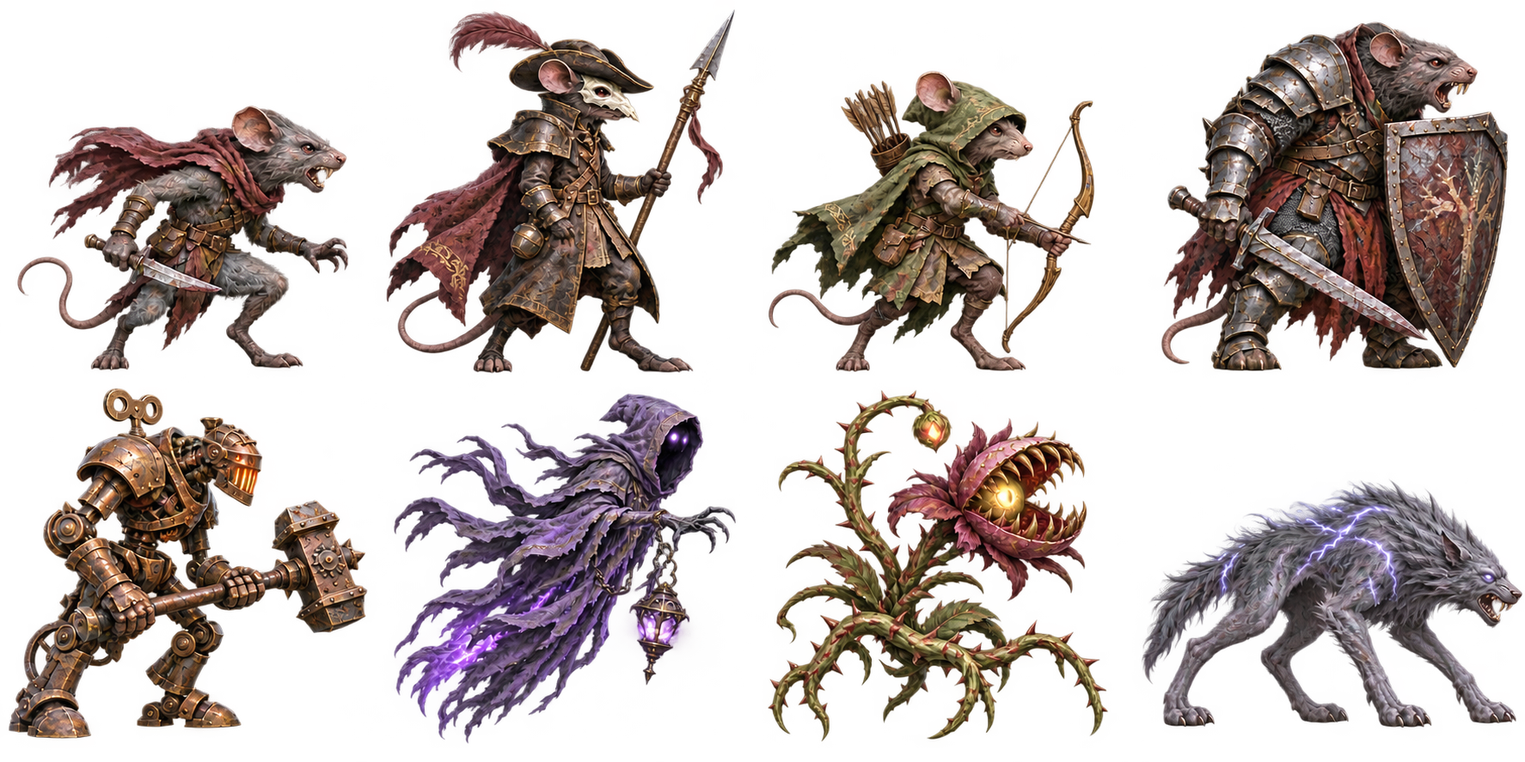
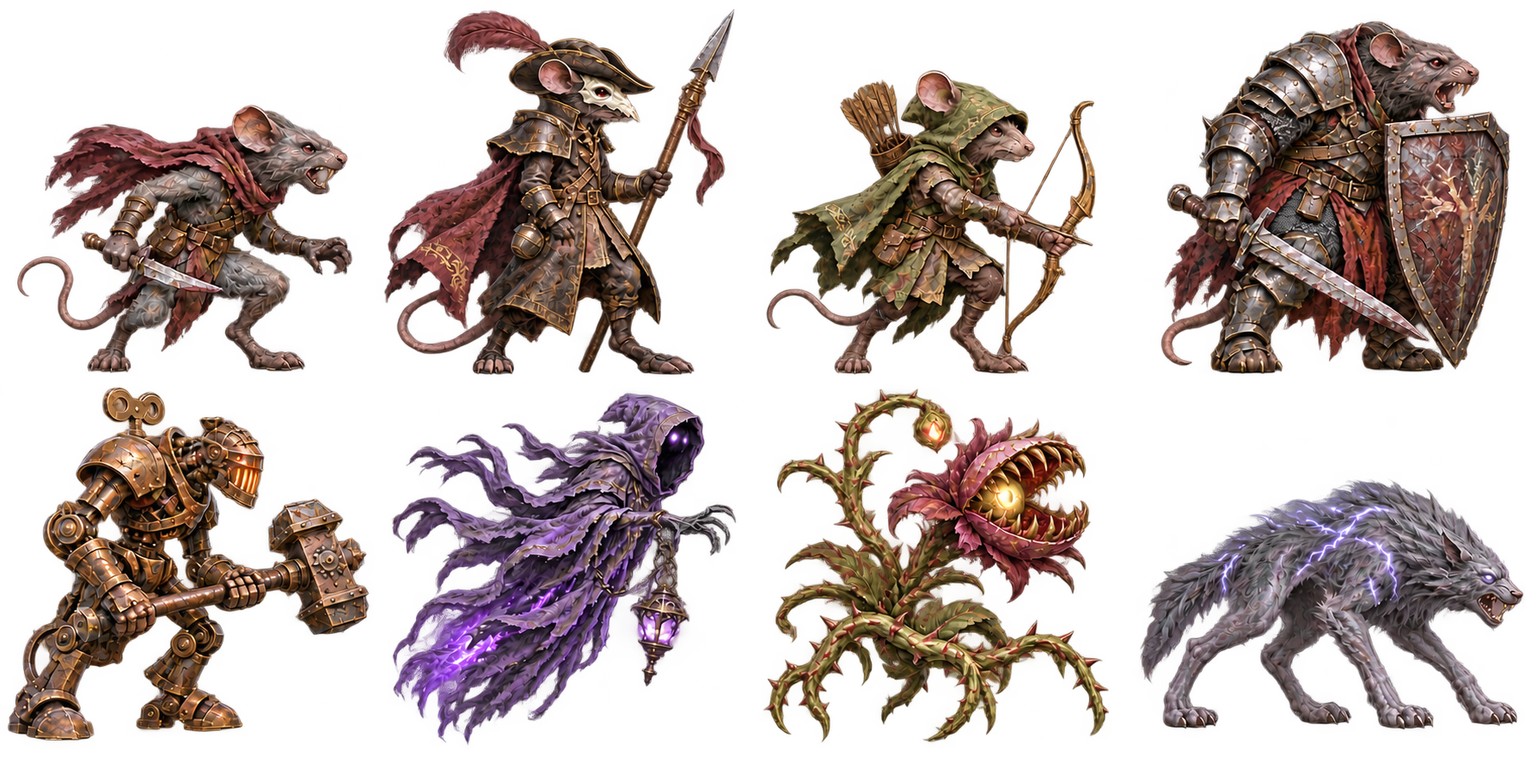
Clean remaining enemy matte fragments and refresh asset URLs

diff --git a/index.html b/index.html
@@ -1,2 +1,2 @@
-<!doctype html><html lang="ru"><head><meta charset="utf-8"><meta name="viewport" content="width=device-width,initial-scale=1"><meta name="theme-color" content="#10141b"><title>Лапы Рассвета II — Тень Богдалины</title><link rel="stylesheet" href="style.css?v=020"></head><body><header><a class="brand" href="#" id="home"><span class="sigil">☾</span><span>ЛАПЫ РАССВЕТА <b>II</b><small>ТЕНЬ БОГДАЛИНЫ</small></span></a><nav><button id="sound">Звук: выкл</button><button id="fullscreen">На весь экран</button><a href="https://github.com/golunovoleg111-rgb/paws-of-dawn-ii" target="_blank" rel="noopener">GitHub ↗</a></nav></header><main><section id="titleScreen"><div class="titleArt"></div><div class="titleMist"></div><canvas id="titleFigure" width="640" height="980" aria-label="Мисти — новая стражница рассвета"></canvas><div class="titleContent"><div class="eyebrow">ДОРОГА ПРОДОЛЖАЕТСЯ</div><h1>Лапы<br>Рассвета <i>II</i></h1><h2>Тень Богдалины</h2><p>Одного рассвета оказалось мало.<br>Теперь Мисти предстоит вернуть тех,<br>ради кого стоит встретить следующий.</p><div class="titleActions"><button class="primary" id="start">Начать путь <span>→</span></button><button id="toCamp">Лагерь и отряд</button><button id="castBook">Герои и противники</button></div><div id="artStatus" class="artStatus" aria-live="polite"></div><div class="titleFacts"><span>10 <small>ЛОКАЦИЙ</small></span><span>4 <small>ГЕРОЯ</small></span><span>3 <small>ПОРАЖЕНИЯ</small></span></div><div class="controls">← → / A D — движение · ПРОБЕЛ — прыжок · S — красться<br>Q — приём · E — атака · F — взаимодействие</div></div><div class="edition">НОВАЯ ИСТОРИЯ · ДЕСЯТЬ ГЛАВ <b>ПРИКЛЮЧЕНЧЕСКАЯ 2.5D ИГРА</b></div></section><section id="campScreen" hidden><div class="campHeading"><div><div class="eyebrow">МЕЖДУ ТЬМОЙ И РАССВЕТОМ</div><h1>Привал у старой дороги</h1><p>Собери отряд. Подготовься. Верни друзей домой.</p></div><div class="wallet"><span id="campFish"></span><small id="campLevel"></small></div></div><div id="party" class="party"></div><div class="campNav"><button data-tab="route" class="active">Путь</button><button data-tab="training">Обучение</button><button data-tab="weapons">Оружейная</button><button data-tab="supplies">Припасы</button><button data-tab="progress">Мастерство</button></div><p id="campNotice" role="status"></p><div id="campContent"></div></section><section id="gameScreen" hidden><div class="gameHeading"><div><small id="chapterLabel"></small><strong id="zoneLabel"></strong></div><div><button id="mapBtn">Карта M</button><button id="inventoryBtn">Сумка Tab</button><button id="pauseBtn">Пауза Esc</button></div></div><div class="stage"><canvas id="game" width="1280" height="720" tabindex="0" aria-label="Игровая локация. Управление стрелками или A D, пробел, S, Q, E, F."></canvas><div class="hud"><div class="heroHud"><canvas id="hudPortrait" width="140" height="150"></canvas><div><b id="heroName"></b><div class="health"><i id="healthFill"></i><span id="healthText"></span></div><div class="xp"><i id="xpFill"></i></div><small id="levelText"></small></div></div><div class="resources"><span id="fishHud"></span><span id="deathsHud"></span><span id="timeHud"></span></div></div><div id="objective"></div><div id="notices" aria-live="polite"></div><div class="bottomHud"><span id="weaponHud"></span><span id="skillHud"></span><span id="potionHud"></span><span id="promptHud"></span></div></div><div class="keyGuide"><span><kbd>S</kbd> красться</span><span><kbd>Q</kbd> особый приём</span><span><kbd>E</kbd> атака</span><span><kbd>F</kbd> взаимодействие</span><span><kbd>1</kbd> зелье</span><span><kbd>2</kbd> сфера</span><span><kbd>3</kbd> решимость</span><span><kbd>4</kbd> паёк</span></div><div id="touch"><button data-key="ArrowLeft">←</button><button data-key="ArrowRight">→</button><button data-key="KeyS">S</button><button data-key="Space">↑</button><button data-key="KeyQ">Q</button><button data-key="KeyE">E</button><button data-key="KeyF">F</button></div></section></main><footer><span>ЛАПЫ РАССВЕТА II / ИГРАЕМАЯ ВЕРСИЯ 0.2</span><a href="https://golunovoleg111-rgb.github.io/paws-on-the-road/" target="_blank" rel="noopener">Первая история ↗</a></footer><dialog id="modal"><button id="closeModal" class="close" aria-label="Закрыть">×</button><div id="modalContent"></div></dialog><div id="globalToast" role="status"></div><script type="module" src="src/main.js?v=020"></script></body></html>
+<!doctype html><html lang="ru"><head><meta charset="utf-8"><meta name="viewport" content="width=device-width,initial-scale=1"><meta name="theme-color" content="#10141b"><title>Лапы Рассвета II — Тень Богдалины</title><link rel="stylesheet" href="style.css?v=021"></head><body><header><a class="brand" href="#" id="home"><span class="sigil">☾</span><span>ЛАПЫ РАССВЕТА <b>II</b><small>ТЕНЬ БОГДАЛИНЫ</small></span></a><nav><button id="sound">Звук: выкл</button><button id="fullscreen">На весь экран</button><a href="https://github.com/golunovoleg111-rgb/paws-of-dawn-ii" target="_blank" rel="noopener">GitHub ↗</a></nav></header><main><section id="titleScreen"><div class="titleArt"></div><div class="titleMist"></div><canvas id="titleFigure" width="640" height="980" aria-label="Мисти — новая стражница рассвета"></canvas><div class="titleContent"><div class="eyebrow">ДОРОГА ПРОДОЛЖАЕТСЯ</div><h1>Лапы<br>Рассвета <i>II</i></h1><h2>Тень Богдалины</h2><p>Одного рассвета оказалось мало.<br>Теперь Мисти предстоит вернуть тех,<br>ради кого стоит встретить следующий.</p><div class="titleActions"><button class="primary" id="start">Начать путь <span>→</span></button><button id="toCamp">Лагерь и отряд</button><button id="castBook">Герои и противники</button></div><div id="artStatus" class="artStatus" aria-live="polite"></div><div class="titleFacts"><span>10 <small>ЛОКАЦИЙ</small></span><span>4 <small>ГЕРОЯ</small></span><span>3 <small>ПОРАЖЕНИЯ</small></span></div><div class="controls">← → / A D — движение · ПРОБЕЛ — прыжок · S — красться<br>Q — приём · E — атака · F — взаимодействие</div></div><div class="edition">НОВАЯ ИСТОРИЯ · ДЕСЯТЬ ГЛАВ <b>ПРИКЛЮЧЕНЧЕСКАЯ 2.5D ИГРА</b></div></section><section id="campScreen" hidden><div class="campHeading"><div><div class="eyebrow">МЕЖДУ ТЬМОЙ И РАССВЕТОМ</div><h1>Привал у старой дороги</h1><p>Собери отряд. Подготовься. Верни друзей домой.</p></div><div class="wallet"><span id="campFish"></span><small id="campLevel"></small></div></div><div id="party" class="party"></div><div class="campNav"><button data-tab="route" class="active">Путь</button><button data-tab="training">Обучение</button><button data-tab="weapons">Оружейная</button><button data-tab="supplies">Припасы</button><button data-tab="progress">Мастерство</button></div><p id="campNotice" role="status"></p><div id="campContent"></div></section><section id="gameScreen" hidden><div class="gameHeading"><div><small id="chapterLabel"></small><strong id="zoneLabel"></strong></div><div><button id="mapBtn">Карта M</button><button id="inventoryBtn">Сумка Tab</button><button id="pauseBtn">Пауза Esc</button></div></div><div class="stage"><canvas id="game" width="1280" height="720" tabindex="0" aria-label="Игровая локация. Управление стрелками или A D, пробел, S, Q, E, F."></canvas><div class="hud"><div class="heroHud"><canvas id="hudPortrait" width="140" height="150"></canvas><div><b id="heroName"></b><div class="health"><i id="healthFill"></i><span id="healthText"></span></div><div class="xp"><i id="xpFill"></i></div><small id="levelText"></small></div></div><div class="resources"><span id="fishHud"></span><span id="deathsHud"></span><span id="timeHud"></span></div></div><div id="objective"></div><div id="notices" aria-live="polite"></div><div class="bottomHud"><span id="weaponHud"></span><span id="skillHud"></span><span id="potionHud"></span><span id="promptHud"></span></div></div><div class="keyGuide"><span><kbd>S</kbd> красться</span><span><kbd>Q</kbd> особый приём</span><span><kbd>E</kbd> атака</span><span><kbd>F</kbd> взаимодействие</span><span><kbd>1</kbd> зелье</span><span><kbd>2</kbd> сфера</span><span><kbd>3</kbd> решимость</span><span><kbd>4</kbd> паёк</span></div><div id="touch"><button data-key="ArrowLeft">←</button><button data-key="ArrowRight">→</button><button data-key="KeyS">S</button><button data-key="Space">↑</button><button data-key="KeyQ">Q</button><button data-key="KeyE">E</button><button data-key="KeyF">F</button></div></section></main><footer><span>ЛАПЫ РАССВЕТА II / ИГРАЕМАЯ ВЕРСИЯ 0.2</span><a href="https://golunovoleg111-rgb.github.io/paws-on-the-road/" target="_blank" rel="noopener">Первая история ↗</a></footer><dialog id="modal"><button id="closeModal" class="close" aria-label="Закрыть">×</button><div id="modalContent"></div></dialog><div id="globalToast" role="status"></div><script type="module" src="src/main.js?v=021"></script></body></html>
 

diff --git a/src/sprites.js b/src/sprites.js
@@ -1,5 +1,5 @@
-import{createCast}from'./cast.js?v=020';import{frameBounds,atlasCell,animationFrame,isolateFrame,expandCell}from'./animation.js?v=020';
-const SPECS={misty:{file:'misty-poses.webp',cols:4,rows:2},party:{file:'party-poses.webp',cols:4,rows:3},enemies:{file:'enemies.webp',cols:4,rows:2},court:{file:'court-poses.webp',cols:4,rows:2},creatures:{file:'creatures.webp',cols:4,rows:2}};
+import{createCast}from'./cast.js?v=021';import{frameBounds,atlasCell,animationFrame,isolateFrame,expandCell}from'./animation.js?v=021';
+const SPECS={misty:{file:'misty-poses.webp',cols:4,rows:2},party:{file:'party-poses.webp',cols:4,rows:3},enemies:{file:'enemies.webp?v=021',cols:4,rows:2},court:{file:'court-poses.webp',cols:4,rows:2},creatures:{file:'creatures.webp',cols:4,rows:2}};
 export class SpriteBank{
  constructor(){this.entries={};this.errors=[];this.pending=Object.keys(SPECS).map(name=>this.load(name))}
  async load(name){const spec=SPECS[name],image=new Image();image.src=new URL('../assets/characters/'+spec.file,import.meta.url).href;try{await image.decode();const canvas=document.createElement('canvas');canvas.width=image.naturalWidth;canvas.height=image.naturalHeight;const c=canvas.getContext('2d',{willReadFrequently:true});c.drawImage(image,0,0);const pixels=c.getImageData(0,0,canvas.width,canvas.height).data;let transparent=0;for(let i=3;i<pixels.length;i+=64)if(pixels[i]<20)transparent++;if(transparent<50)throw Error('Atlas has no usable transparency');const frames=Array.from({length:spec.cols*spec.rows},(_,i)=>{const cell=expandCell(atlasCell(i,spec.cols,canvas.width,canvas.height,spec.rows),canvas.width,canvas.height,name==='creatures'?.12:.04);const isolated=isolateFrame(pixels,canvas.width,cell);if(!isolated)return{...cell,bounds:null};const {labels,selected,...bounds}=isolated,clean=document.createElement('canvas');clean.width=bounds.maxX-bounds.minX+1;clean.height=bounds.maxY-bounds.minY+1;const cc=clean.getContext('2d'),data=cc.createImageData(clean.width,clean.height);for(let y=0;y<clean.height;y++)for(let x=0;x<clean.width;x++){const xx=x+bounds.minX,yy=y+bounds.minY;let keep=selected.has(labels[yy*cell.w+xx]);if(!keep){for(let dy=-2;dy<=2&&!keep;dy++)for(let dx=-2;dx<=2;dx++){const nx=xx+dx,ny=yy+dy;if(nx>=0&&nx<cell.w&&ny>=0&&ny<cell.h&&selected.has(labels[ny*cell.w+nx])){keep=true;break}}}if(keep){const src=((cell.y+yy)*canvas.width+cell.x+xx)*4,dst=(y*clean.width+x)*4;for(let a=0;a<4;a++)data.data[dst+a]=pixels[src+a]}}cc.putImageData(data,0,0);return{...cell,bounds,clean}});if(frames.some(f=>!f.bounds))throw Error('Empty sprite frame');this.entries[name]={image,frames,spec};return true}catch(error){this.errors.push(name);console.warn('Character atlas unavailable:',name,error.message);return false}}

diff --git a/src/model.js b/src/model.js
@@ -1,4 +1,4 @@
-import{HEROES,ITEMS,WEAPONS,SKILLS,CHAPTERS,RELICS,GEAR}from'./data.js?v=020';
+import{HEROES,ITEMS,WEAPONS,SKILLS,CHAPTERS,RELICS,GEAR}from'./data.js?v=021';
 export const clamp=(n,a,b)=>Math.max(a,Math.min(b,n));
 export function freshSave(){return{version:1,fish:85,xp:0,hero:0,rescued:[0],completed:[],skills:[],weapons:['sword'],weapon:'sword',gearOwned:[],gear:{},inventory:{potion:2,arrows:10},looted:[],awards:[],chapter:0,attempt:1,run:null,bestTimes:{},intro:false}}
 export function readSave(storage,key){try{const raw=JSON.parse(storage.getItem(key));if(!raw||raw.version!==1)return freshSave();const s={...freshSave(),...raw};s.fish=clamp(Number(s.fish)||0,0,999999);s.xp=clamp(Number(s.xp)||0,0,1000000);s.chapter=clamp(Number(s.chapter)||0,0,9);s.rescued=[...new Set([0,...(s.rescued||[]).filter(n=>Number.isInteger(n)&&n>=0&&n<4)])];if(!s.rescued.includes(s.hero))s.hero=0;s.completed=[...new Set((s.completed||[]).filter(n=>Number.isInteger(n)&&n>=0&&n<10))];s.skills=(s.skills||[]).filter(id=>SKILLS.some(a=>a.id===id));s.weapons=[...new Set(['sword',...(s.weapons||[]).filter(id=>WEAPONS.some(a=>a.id===id))])];if(!s.weapons.includes(s.weapon))s.weapon='sword';const inv={};for(const[id,q]of Object.entries(s.inventory||{}))if(ITEMS[id]&&q>0)inv[id]=clamp(Math.floor(q),0,ITEMS[id].cap);s.inventory=inv;s.gearOwned=(s.gearOwned||[]).filter(id=>GEAR.some(g=>g.id===id));s.gear=s.gear||{};for(const [slot,id]of Object.entries(s.gear))if(!s.gearOwned.includes(id)||!GEAR.some(g=>g.id===id&&g.slot===slot))delete s.gear[slot];s.looted=Array.isArray(s.looted)?s.looted:[];s.awards=Array.isArray(s.awards)?s.awards:[];s.bestTimes=s.bestTimes||{};return s}catch{return freshSave()}}

diff --git a/src/main.js b/src/main.js
@@ -1,6 +1,6 @@
-import{SAVE_KEY,CHAPTERS,HEROES,ITEMS,WEAPONS,SKILLS,MILESTONES,GEAR}from'./data.js?v=020';
-import{readSave,stats,levelOf,weaponOf,purchase,useItem,nextTraining,canEnter,relicChoices}from'./model.js?v=020';
-import{Game}from'./engine.js?v=020';import{Renderer}from'./renderer.js?v=020';import{metrics,targetMetrics,dialsSolved,inputSequence}from'./puzzles.js?v=020';
+import{SAVE_KEY,CHAPTERS,HEROES,ITEMS,WEAPONS,SKILLS,MILESTONES,GEAR}from'./data.js?v=021';
+import{readSave,stats,levelOf,weaponOf,purchase,useItem,nextTraining,canEnter,relicChoices}from'./model.js?v=021';
+import{Game}from'./engine.js?v=021';import{Renderer}from'./renderer.js?v=021';import{metrics,targetMetrics,dialsSolved,inputSequence}from'./puzzles.js?v=021';
 const $=s=>document.querySelector(s),all=s=>document.querySelectorAll(s);let save=readSave(localStorage,SAVE_KEY),campTab='route',sound=false,audio=null,modalReturn='play',puzzle=null,lastHud=0,lastPaint=0,toastTimer,modalAction=null;
 export const game=new Game(save,onEvent);const renderer=new Renderer($('#game'));const modal=$('#modal'),content=$('#modalContent');
 const clockText=n=>Math.floor(n/60)+':'+String(Math.floor(n%60)).padStart(2,'0');

diff --git a/src/renderer.js b/src/renderer.js
@@ -1,4 +1,4 @@
-import{CHAPTERS,HEROES,ENEMY_TYPES}from'./data.js?v=020';import{createSpriteCast}from'./sprites.js?v=020';import{levelOf,weaponOf}from'./model.js?v=020';
+import{CHAPTERS,HEROES,ENEMY_TYPES}from'./data.js?v=021';import{createSpriteCast}from'./sprites.js?v=021';import{levelOf,weaponOf}from'./model.js?v=021';
 const W=1280,H=720,PALETTES=[['#55514b','#37383a','#9d8d70'],['#455b5d','#253e45','#9bafa0'],['#565164','#323445','#aaa0b9'],['#695549','#3c3435','#bf9972'],['#4e5c4e','#2f3f39','#a2b291'],['#6c6255','#3f3d3c','#c0ad87'],['#4d5c68','#2b3e50','#a9b6c0'],['#5b564c','#363a3d','#baaa84'],['#5c4c57','#33303f','#ba929c'],['#514553','#2d293a','#b799a6']];
 export class Renderer{
  constructor(canvas){this.canvas=canvas;this.c=canvas.getContext('2d');canvas.width=W*1.5;canvas.height=H*1.5;this.c.setTransform(1.5,0,0,1.5,0,0);this.cast=createSpriteCast();this.atlas=new Image();this.atlas.src='assets/worlds-atlas.webp';this.frame=0;this.tiles={};for(const name of ['meadow','forest','roof','coast','snow','ruins','castle','wood','iron','bark']){const image=new Image();image.src='assets/materials/'+name+'.png';this.tiles[name]=image}this.patterns={};}

diff --git a/src/engine.js b/src/engine.js
@@ -1,6 +1,6 @@
-import{CHAPTERS,HEROES,ENEMY_TYPES,SKILLS,WEAPONS}from'./data.js?v=020';
-import{stats,weaponOf,levelOf,canEnter,award,addItem,useItem,clamp,seeded}from'./model.js?v=020';
-import{buildWorld,entityBox}from'./world.js?v=020';
+import{CHAPTERS,HEROES,ENEMY_TYPES,SKILLS,WEAPONS}from'./data.js?v=021';
+import{stats,weaponOf,levelOf,canEnter,award,addItem,useItem,clamp,seeded}from'./model.js?v=021';
+import{buildWorld,entityBox}from'./world.js?v=021';
 export const overlaps=(a,b)=>a.x<b.x+b.w&&a.x+a.w>b.x&&a.y<b.y+b.h&&a.y+a.h>b.y;
 const distance=(a,b)=>Math.hypot(a.x-b.x,a.y-b.y);
 export class Game{

diff --git a/src/world.js b/src/world.js
@@ -1,4 +1,4 @@
-import{CHAPTERS,ENEMY_TYPES}from'./data.js?v=020';import{seeded}from'./model.js?v=020';
+import{CHAPTERS,ENEMY_TYPES}from'./data.js?v=021';import{seeded}from'./model.js?v=021';
 // Authored terrain contours. Deep fronts are solid architecture, not a stream of floating tiles.
 const CONTOURS=[
  [[0,900,700],[1000,740,700],[1840,900,620],[2840,800,700],[3750,850,790],[4720,900,700],[5740,900,620],[6750,900,700],[7760,1140,700]],

diff --git a/docs/character-art.md b/docs/character-art.md
@@ -7,7 +7,7 @@
 | Файл (PNG + WebP) | Сетка | Содержание |
 | --- | --- | --- |
 | misty-poses | 4×2 | Мисти: две стойки, два шага, два удара, прыжок, крадущаяся поза |
-| party-poses | 4×3 | Коди, Гектор, Теддик: стойка, бег, удар, прыжок |
+| party-poses | 4×3 | Коди, Гектор, Теддик: стойка, два шага бега, удар |
 | enemies | 4×2 | Крыса, налётчик, стрелок, щитоносец, автоматон, тень, растение, гончая |
 | court-poses | 4×2 | Четыре позы Богдалины и четыре позы совы Ори |
 | creatures | 4×2 | Четыре позы мотылька и четыре состояния стража печати |
@@ -19,7 +19,7 @@
 Общий стиль: production game sprite atlas for a mature 2.5D side-scrolling fantasy adventure. Detailed hand-painted pre-rendered character look, tactile fur, engraved metal, worn leather, cinematic dimensional lighting. Not pixel art, not flat vector, not geometric placeholders. Side view facing right, full body, consistent ground registration, no labels, no UI, true transparent background. All weapons, ears, tails and cloaks stay inside their cells, generous transparent margins, no overlap or ground plane.
 
 1. Misty: 4 columns by 2 rows. Adult black female cat knight, emerald eyes, flexible steel and leather armor, worn indigo cape, moon sabre. Eight poses in reading order: alert idle, relaxed idle, two distinct running strides, attack preparation, attack follow-through, airborne jump, low stealth crouch. Preserve identity and armor between poses.
-2. Party: 4 columns by 3 rows. Each row is one character; columns are idle, run, attack, jump. Row 1 Cody, ginger cat duelist, light leather armor and green cape, curved sabre. Row 2 Hector, large Maine Coon with mane, engraved heavy armor, shield and massive hammer. Row 3 Teddy, cream Pomeranian ranger, travel coat, satchel and short sword. Distinct silhouettes; same body proportions within each row. Keep complete silhouettes and weapon tips within safe cell margins.
+2. Party: 4 columns by 3 rows. Each row is one character; columns are idle, first running stride, second running stride, attack. Row 1 Cody, ginger cat duelist, light leather armor and green cape, curved sabre. Row 2 Hector, large Maine Coon with mane, engraved heavy armor, shield and massive hammer. Row 3 Teddy, cream Pomeranian ranger, travel coat, satchel and short sword. Distinct silhouettes; same body proportions within each row. Keep complete silhouettes and weapon tips within safe cell margins.
 3. Enemies: 4 columns by 2 rows. Rat knife scout; armored rat raider with spear; hooded rat archer; heavy rat shield guard; brass clockwork executioner; purple hooded spectral archivist; thorn carnivorous plant; four-legged storm hound. Detailed readable adversaries with distinct materials and silhouettes. Background extraction edit: preserve all characters, remove opaque pale backing and detached fog, retain true alpha and intentional local magic glows.
 4. Court: 4 columns by 2 rows. Row 1 Bogdalina, imposing adult silver-furred feline queen, burgundy velvet, sharp crown, ornate regalia: idle, spell preparation, spell release, furious final phase. Row 2 Ori, feathered owl scholar with old tome and academic robe: idle, blink, speaking, wings open. Consistent identity, dramatic but readable costume.
 5. Creatures: 4 columns by 2 rows. Row 1 luminous lunar moth with velvet wings and moon patterns: wings raised, wide, lowered, releasing pollen. Row 2 floating antique brass seal sentinel with living gemstone eye: open, charging, firing, dormant. Background extraction edit: preserve sprites, remove the backing completely, retain alpha around fine wing edges and suspended rings.
@@ -28,4 +28,4 @@
 
 Игра выделяет связанные части силуэта, привязывает позы к стопам и использует стабильный масштаб тела. Это техническая нарезка атласа; исходные иллюстрации не перерисовываются кодом. WebP: quality 92, alpha quality 100. Старый векторный набор остаётся резервом при ошибке загрузки.
 
-Движения комбинируют несколько нарисованных поз с процедурным смещением. У наземных врагов пока по одной основной позе; индивидуальные циклы каждого оружия и плавные переходы ещё требуют работы. Лук отображается поверх базовой позы. У спутников пригибание пока масштабирует стойку; у Мисти есть отдельная нарисованная поза. Полный ручной прогон и баланс всей кампании остаются следующим этапом.
+Движения комбинируют несколько нарисованных поз с процедурным смещением. У наземных врагов пока по одной основной позе; индивидуальные циклы каждого оружия и плавные переходы ещё требуют работы. Лук отображается поверх базовой позы. У спутников пригибание пока масштабирует стойку; у Мисти есть отдельная нарисованная поза. Для прыжков спутников пока используются беговые кадры. Полный ручной прогон и баланс всей кампании остаются следующим этапом.
